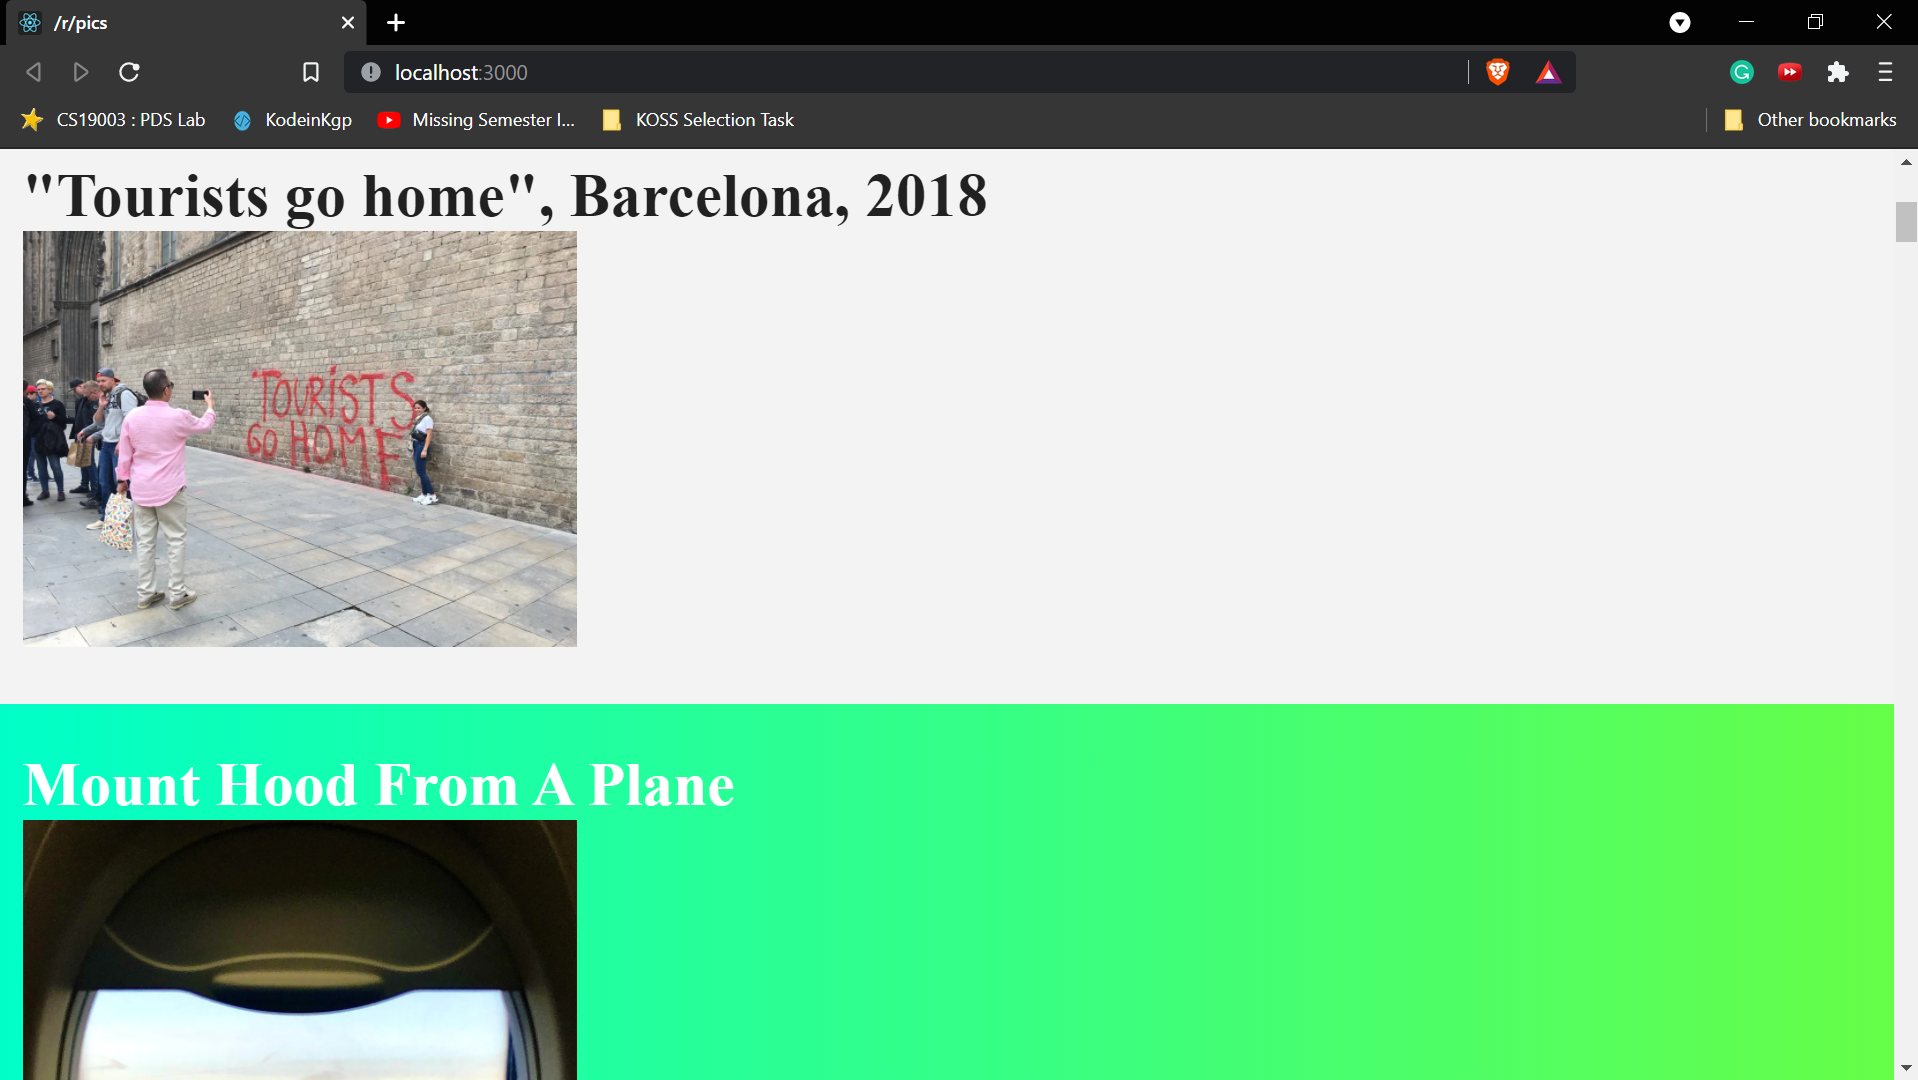
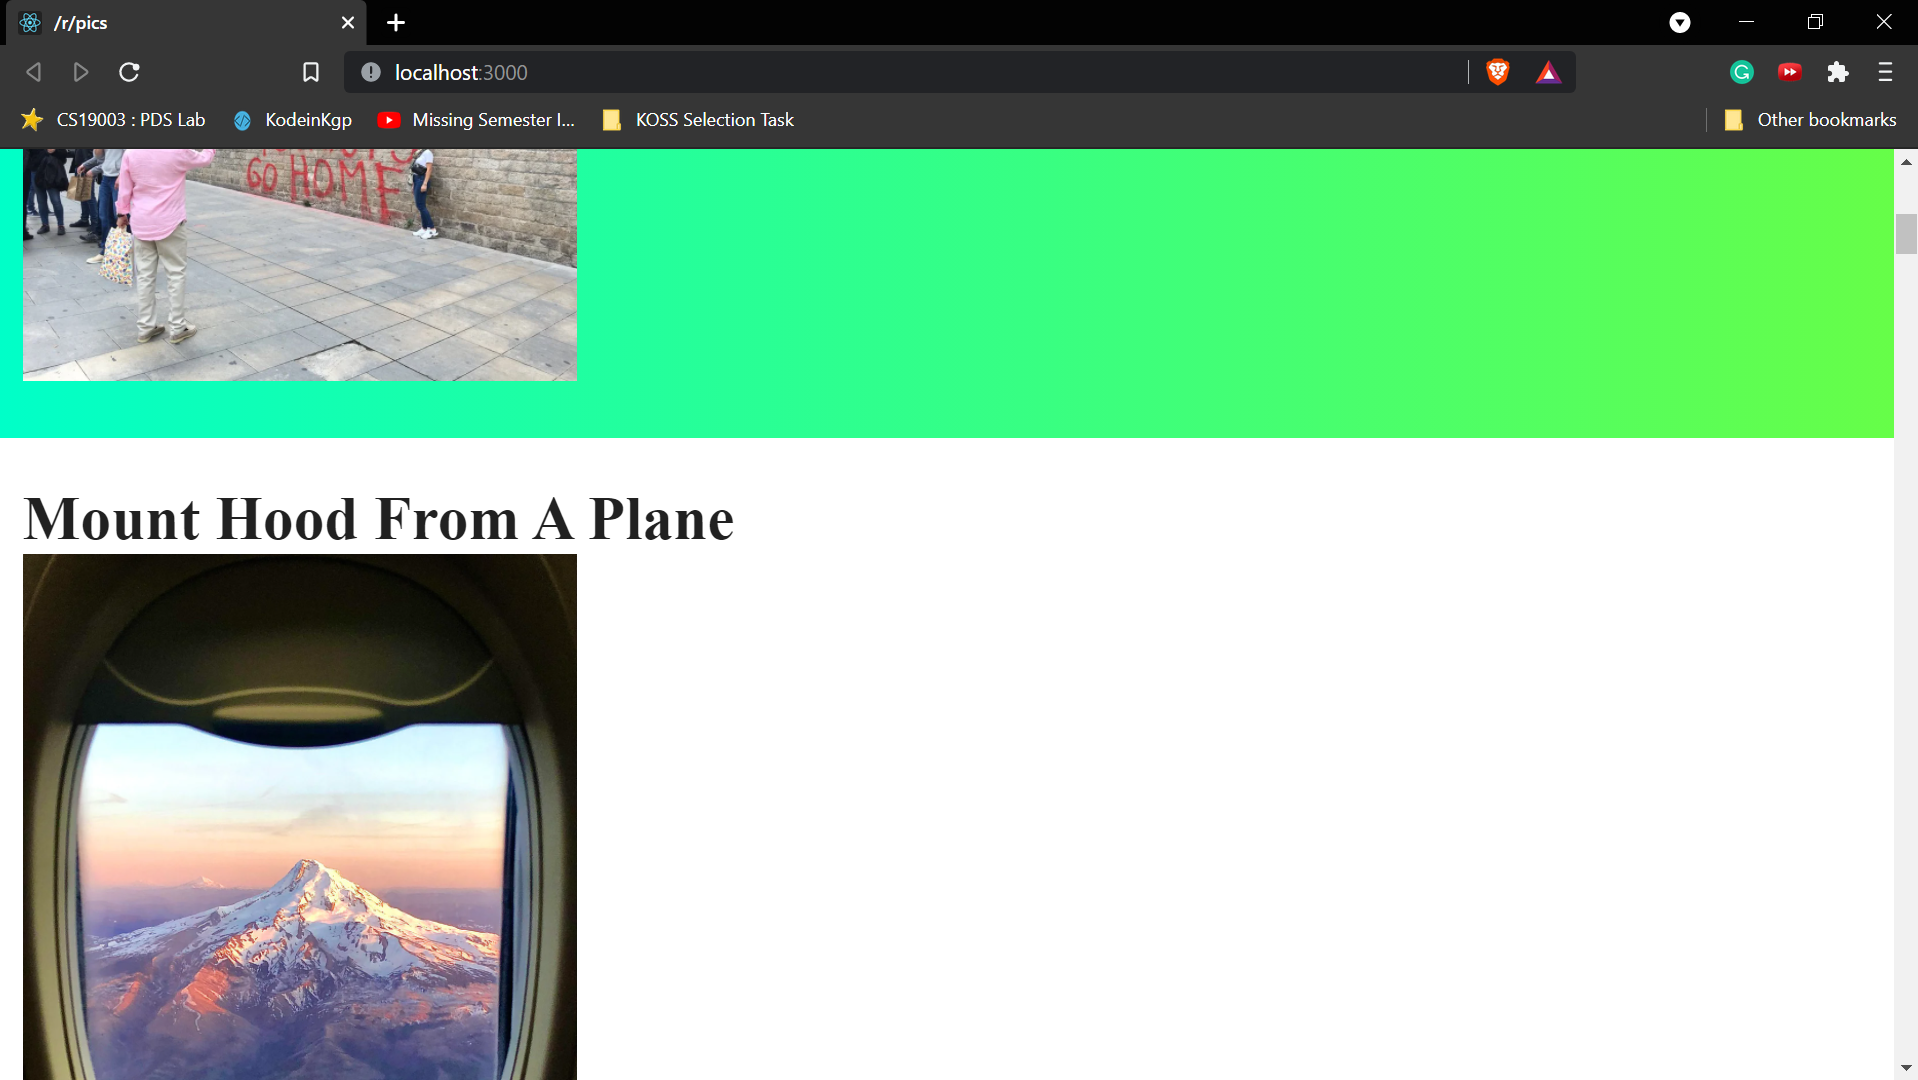
updated myapproach.md

diff --git a/myapproach.md b/myapproach.md
@@ -87,7 +87,13 @@ and enclosed it in a div giving classes wherever it was required
 ### *This is how the app looks*
 
 ![image1](screenshots/1.png)
+
+### On hovering to an article :
+
 ![image2](screenshots/2.png)
+![image3](screenshots/3.png)
+
+
 
 
 
